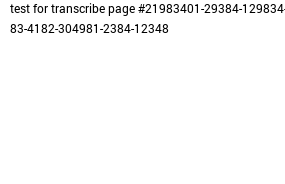
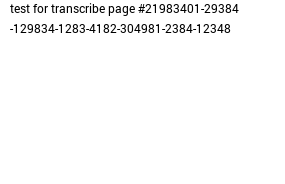
formatting fix for image

Changed region(s): [[0.0281, 0.1087, 0.814, 0.1902], [0.8421, 0.0, 1.0, 0.0815]]

diff --git a/pages.py b/pages.py
@@ -10,9 +10,9 @@ def writeText(text, fileName):
     image = Image.open('real_effort/background.png')
     draw = ImageDraw.Draw(image)
     font = ImageFont.truetype('real_effort/Roboto-Regular.ttf', size=12)
-    imageChars = 50
+    imageChars = 40
     numLines = len(text) / imageChars
-    numLines = int(math.ceil(numLines))
+    numLines = math.ceil(numLines)
     lines = []
     for i in range(numLines):
         if(imageChars * (i + 1) < len(text)):
